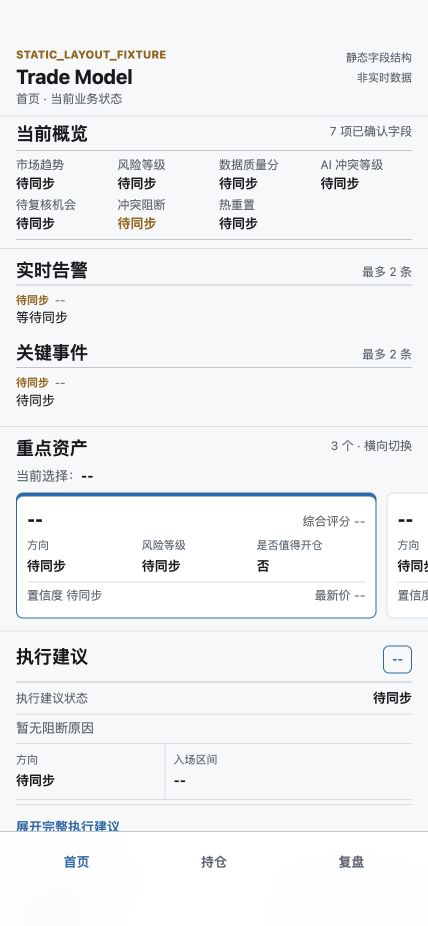
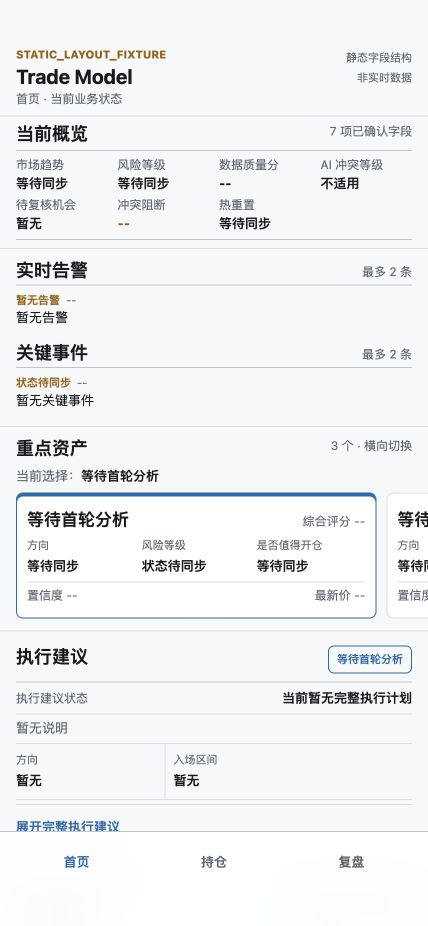
fix(design): guard capture rendering and refresh evidence

diff --git a/docs/design/p3-u2-iphone-home-ia-v2/interaction.js b/docs/design/p3-u2-iphone-home-ia-v2/interaction.js
@@ -35,6 +35,32 @@
   let captureEmptyStates = new Map();
   const captureUsesSafeEmptyState = params.get("capture") === "1";
 
+  const setCaptureContract = (status) => {
+    documentElement.dataset.captureContract = status;
+    document.body.dataset.captureContract = status;
+  };
+
+  const renderCaptureFailure = () => {
+    const failure = document.createElement("main");
+    const content = document.createElement("section");
+    const label = document.createElement("p");
+    const title = document.createElement("h1");
+    const message = document.createElement("p");
+
+    failure.className = "capture-failure";
+    failure.dataset.captureFailure = "field-map-unavailable";
+    failure.setAttribute("role", "alert");
+    content.className = "capture-failure-content";
+    label.className = "fixture-label";
+    label.textContent = "STATIC_LAYOUT_FIXTURE";
+    title.textContent = "原型数据不可用";
+    message.textContent = "字段映射加载失败，未展示未初始化内容。";
+    content.append(label, title, message);
+    failure.append(content);
+    document.body.replaceChildren(failure);
+    setCaptureContract("error");
+  };
+
   const fieldPathCandidates = (fieldPath) => Array.from(new Set([
     fieldPath,
     fieldPath.replace(/\[\d+\]/g, "[]"),
@@ -337,13 +363,13 @@
     if (Object.isExtensible(window)) {
       window.P3U2Prototype = prototypeApi;
     }
-    document.body.dataset.captureContract = captureUsesSafeEmptyState ? "ready" : "not-requested";
+    setCaptureContract(captureUsesSafeEmptyState ? "ready" : "not-requested");
     return prototypeApi;
   };
 
   if (captureUsesSafeEmptyState) {
     document.body.classList.add("capture-mode");
-    document.body.dataset.captureContract = "loading";
+    setCaptureContract("loading");
   }
 
   const prototypeReady = captureUsesSafeEmptyState
@@ -360,7 +386,7 @@
     window.P3U2PrototypeReady = prototypeReady;
   }
   prototypeReady.catch((error) => {
-    document.body.dataset.captureContract = "error";
-    console.error(error);
+    renderCaptureFailure();
+    console.error("Capture-mode initialization failed", error);
   });
 })();

diff --git a/docs/design/p3-u2-iphone-home-ia-v2/styles.css b/docs/design/p3-u2-iphone-home-ia-v2/styles.css
@@ -67,6 +67,10 @@ body {
   line-height: 1.45;
 }
 
+html[data-capture-contract="loading"] body {
+  visibility: hidden;
+}
+
 button,
 a,
 summary {
@@ -953,6 +957,33 @@ body.capture-mode .device-shell {
   border: 0;
   border-radius: 0;
   box-shadow: none;
+}
+
+.capture-failure {
+  display: grid;
+  width: 100vw;
+  min-height: 100vh;
+  place-items: center;
+  padding: 24px;
+  background: var(--surface);
+}
+
+.capture-failure-content {
+  width: min(100%, 360px);
+  padding: 20px;
+  border: 1px solid var(--line);
+  border-radius: 8px;
+  background: var(--surface-raised);
+}
+
+.capture-failure-content h1 {
+  margin-top: 4px;
+  font-size: 1.25rem;
+}
+
+.capture-failure-content p:last-child {
+  margin-top: 8px;
+  color: var(--text-secondary);
 }
 
 @media (max-width: 760px) {

diff --git a/docs/design/p3-u2-iphone-home-ia-v2/index.html b/docs/design/p3-u2-iphone-home-ia-v2/index.html
@@ -5,6 +5,11 @@
   <meta name="viewport" content="width=device-width, initial-scale=1, viewport-fit=cover">
   <meta name="color-scheme" content="light dark">
   <title>P3-U2 iPhone Home IA v2</title>
+  <script>
+    if (new URLSearchParams(window.location.search).get("capture") === "1") {
+      document.documentElement.dataset.captureContract = "loading";
+    }
+  </script>
   <link rel="stylesheet" href="styles.css">
   <script src="interaction.js" defer></script>
 </head>

diff --git a/src/test/java/org/example/trademodel/dashboard/P3U2IPhoneHomePrototypeContractTest.java b/src/test/java/org/example/trademodel/dashboard/P3U2IPhoneHomePrototypeContractTest.java
@@ -4,6 +4,8 @@ import com.fasterxml.jackson.databind.JsonNode;
 import com.fasterxml.jackson.databind.ObjectMapper;
 import org.junit.jupiter.api.Test;
 
+import javax.imageio.ImageIO;
+import java.awt.image.BufferedImage;
 import java.io.IOException;
 import java.nio.file.Files;
 import java.nio.file.Path;
@@ -24,6 +26,45 @@ class P3U2IPhoneHomePrototypeContractTest {
             Path.of("docs/design/p3-u2-iphone-home-ia-v2");
     private static final ObjectMapper OBJECT_MAPPER = new ObjectMapper();
     private static final Pattern FIELD_TOKEN = Pattern.compile("\\{([^{}]+)}");
+
+    @Test
+    void captureModeGuardsFirstPaintUntilFieldMapIsReady() throws IOException {
+        String html = Files.readString(PROTOTYPE_DIR.resolve("index.html"));
+        String styles = Files.readString(PROTOTYPE_DIR.resolve("styles.css"));
+        String script = Files.readString(PROTOTYPE_DIR.resolve("interaction.js"));
+        int loadingGuard = html.indexOf(
+                "document.documentElement.dataset.captureContract = \"loading\";");
+        int stylesheet = html.indexOf("<link rel=\"stylesheet\" href=\"styles.css\">");
+
+        assertThat(loadingGuard).isGreaterThanOrEqualTo(0);
+        assertThat(stylesheet).isGreaterThan(loadingGuard);
+        assertThat(styles)
+                .contains("html[data-capture-contract=\"loading\"] body")
+                .contains("visibility: hidden;");
+        assertThat(script)
+                .contains("const setCaptureContract = (status) => {")
+                .contains("setCaptureContract(\"loading\");")
+                .contains("setCaptureContract(captureUsesSafeEmptyState ? \"ready\" : \"not-requested\");");
+    }
+
+    @Test
+    void captureModeFailureRemovesTemplateDomAndRendersFailClosedState() throws IOException {
+        String script = Files.readString(PROTOTYPE_DIR.resolve("interaction.js"));
+        String readme = Files.readString(PROTOTYPE_DIR.resolve("README.md"));
+
+        assertThat(script)
+                .contains("const renderCaptureFailure = () => {")
+                .contains("failure.dataset.captureFailure = \"field-map-unavailable\";")
+                .contains("message.textContent = \"字段映射加载失败，未展示未初始化内容。\";")
+                .contains("document.body.replaceChildren(failure);")
+                .contains("setCaptureContract(\"error\");")
+                .contains("renderCaptureFailure();");
+        assertThat(readme)
+                .contains("html[data-capture-contract=\"ready\"], html[data-capture-contract=\"error\"]")
+                .contains("getAttribute(\"data-capture-contract\") !== \"ready\"")
+                .contains("DOM attribute is the authoritative gate")
+                .contains("screenshot generation must stop");
+    }
 
     @Test
     void captureModeNormalizesAndValidatesPositionBeforeBaseline() throws IOException {
@@ -100,9 +141,10 @@ class P3U2IPhoneHomePrototypeContractTest {
     @Test
     void everyPrototypeTokenHasAMappedEmptyState() throws IOException {
         String html = Files.readString(PROTOTYPE_DIR.resolve("index.html"));
+        String body = section(html, "<body>", "</body>");
         Map<String, String> emptyStates = fieldEmptyStates();
         Set<String> missingFields = new TreeSet<>();
-        Matcher matcher = FIELD_TOKEN.matcher(html);
+        Matcher matcher = FIELD_TOKEN.matcher(body);
 
         while (matcher.find()) {
             String fieldPath = matcher.group(1);
@@ -114,6 +156,33 @@ class P3U2IPhoneHomePrototypeContractTest {
         }
 
         assertThat(missingFields).isEmpty();
+    }
+
+    @Test
+    void captureReferenceScreenshotsArePngsAtTheirContractViewports() throws IOException {
+        Map<String, List<Integer>> screenshotSizes = Map.of(
+                "iphone-17-pro-max-light.png", List.of(440, 956),
+                "iphone-17-pro-max-dark.png", List.of(440, 956),
+                "iphone-17-pro-max-first-screen.png", List.of(440, 956),
+                "iphone-17-pro-max-position-collapsed.png", List.of(440, 956),
+                "iphone-17-pro-max-ai-collapsed.png", List.of(440, 956),
+                "iphone-17-pro-max-large-text.png", List.of(440, 956),
+                "iphone-12-pro-max-light.png", List.of(428, 926),
+                "iphone-12-pro-max-dark.png", List.of(428, 926));
+
+        for (Map.Entry<String, List<Integer>> entry : screenshotSizes.entrySet()) {
+            Path screenshot = PROTOTYPE_DIR.resolve("screenshots").resolve(entry.getKey());
+            byte[] bytes = Files.readAllBytes(screenshot);
+            BufferedImage image = ImageIO.read(screenshot.toFile());
+
+            assertThat(bytes[0]).as(entry.getKey()).isEqualTo((byte) 0x89);
+            assertThat(bytes[1]).as(entry.getKey()).isEqualTo((byte) 0x50);
+            assertThat(bytes[2]).as(entry.getKey()).isEqualTo((byte) 0x4e);
+            assertThat(bytes[3]).as(entry.getKey()).isEqualTo((byte) 0x47);
+            assertThat(image).as(entry.getKey()).isNotNull();
+            assertThat(image.getWidth()).as(entry.getKey()).isEqualTo(entry.getValue().get(0));
+            assertThat(image.getHeight()).as(entry.getKey()).isEqualTo(entry.getValue().get(1));
+        }
     }
 
     private static Map<String, String> fieldEmptyStates() throws IOException {

diff --git a/docs/design/p3-u2-iphone-home-ia-v2/README.md b/docs/design/p3-u2-iphone-home-ia-v2/README.md
@@ -13,7 +13,8 @@ Serve the repository root with any local static HTTP server, then open:
 ```
 
 The prototype has no dependency installation, build step, CDN, backend call,
-cookie, storage, or form submission.
+cookie, storage, or form submission. Capture mode performs one same-directory
+request for the checked-in `field-map.json`; it makes no external request.
 
 ## Preview Parameters
 
@@ -34,6 +35,29 @@ Use a `440 x 956` browser viewport for 17PM and a `428 x 926` viewport for
 12PM. The corresponding measured safe areas are `62 / 0 / 34 / 0pt` and
 `47 / 0 / 34 / 0pt`.
 
+## Capture Readiness Gate
+
+Capture tooling must wait for a terminal DOM contract state before taking a
+screenshot:
+
+```js
+const terminalState = page.locator(
+  'html[data-capture-contract="ready"], html[data-capture-contract="error"]'
+);
+await terminalState.waitFor({ state: "attached" });
+if (await page.locator("html").getAttribute("data-capture-contract") !== "ready") {
+  throw new Error("Capture contract is not ready");
+}
+```
+
+The document marks capture mode as `loading` before the stylesheet is loaded,
+so raw template tokens never receive a visible first paint. Successful
+field-map normalization changes the state to `ready`. A load or validation
+failure removes the template DOM, renders a bounded fail-closed unavailable
+state, and changes the state to `error`; screenshot generation must stop.
+`window.P3U2PrototypeReady` is also exposed as a convenience when the host
+allows extending `window`, but the DOM attribute is the authoritative gate.
+
 ## Rendered Evidence
 
 The checked-in viewport captures were rendered directly from `index.html`:
@@ -48,8 +72,8 @@ The checked-in viewport captures were rendered directly from `index.html`:
 - `screenshots/iphone-17-pro-max-large-text.png`
 
 Both fixtures show one compact alert/event summary; native disclosure retains
-capacity for a second row. Capture mode displays only `--`, `待同步`, `等待同步`,
-`否`, and the explicit no-block fallback instead of manufacturing market or AI
+capacity for a second row. Capture mode renders the exact per-field
+`emptyState` from `field-map.json` instead of manufacturing market or AI
 evidence. Every replaced value retains its exact path in `data-field-token`.
 The 12PM panels stack independently rather than scaling the 17PM layout.
 
@@ -123,7 +147,7 @@ field, so the consistency summary does not render it.
 - Production Swift changed: `NO`
 - Dashboard template changed: `NO`
 - PR #1134 changed: `NO`
-- Network requests: `NONE`
+- Network requests: `LOCAL_FIELD_MAP_ONLY`
 - Provider or AI calls: `NONE`
 - Orders, position mutation, Push, Telegram, or trading: `NONE`
 - Production readiness: `BLOCKED`
